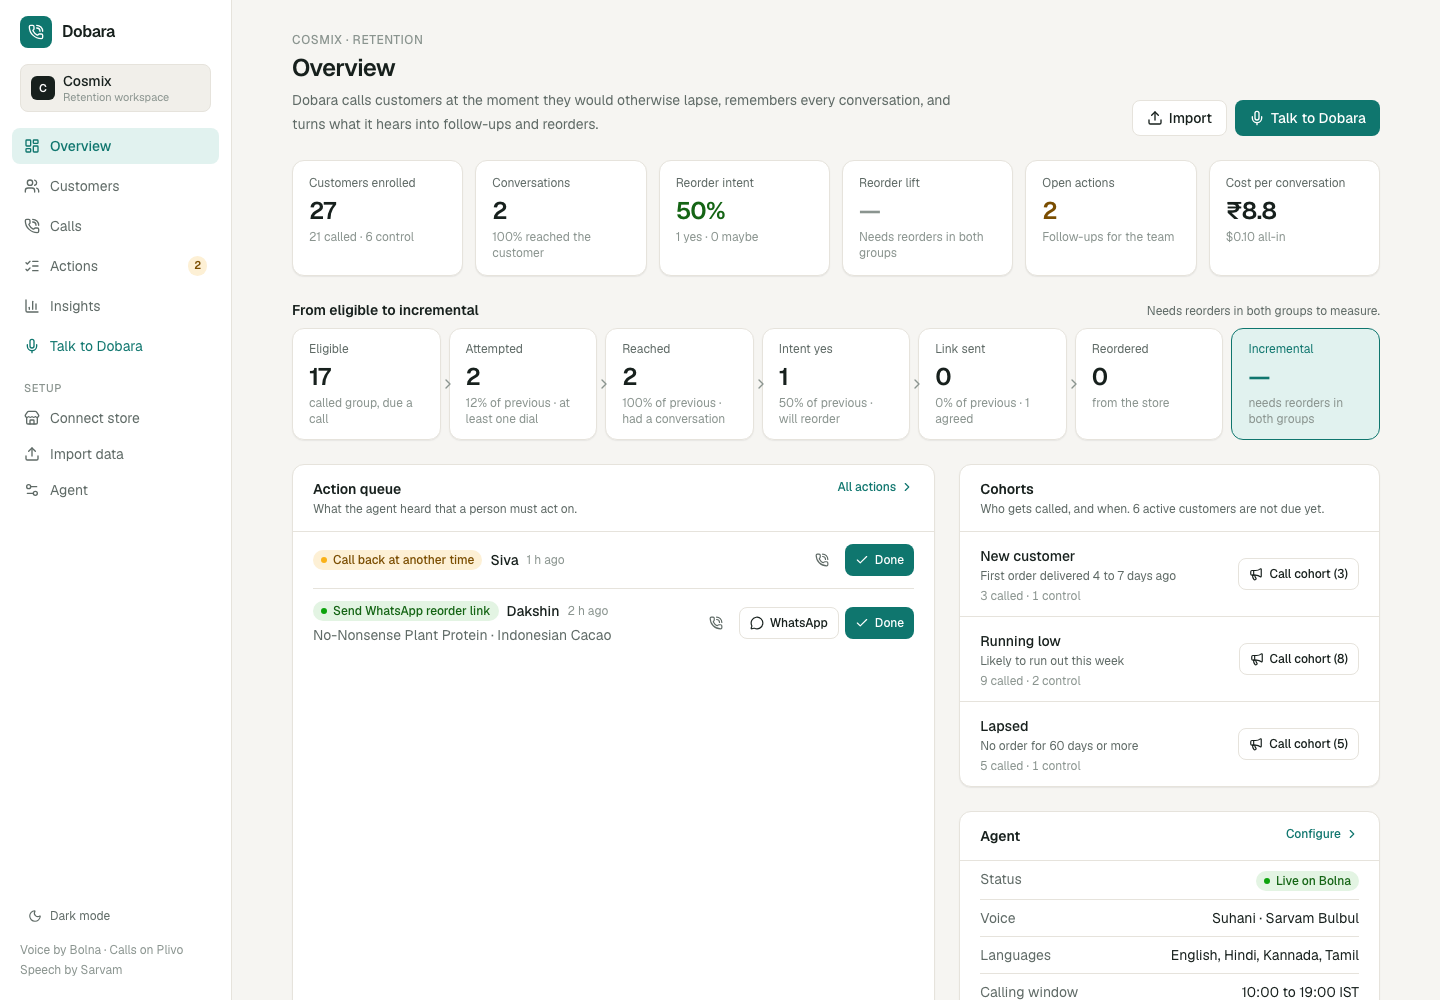
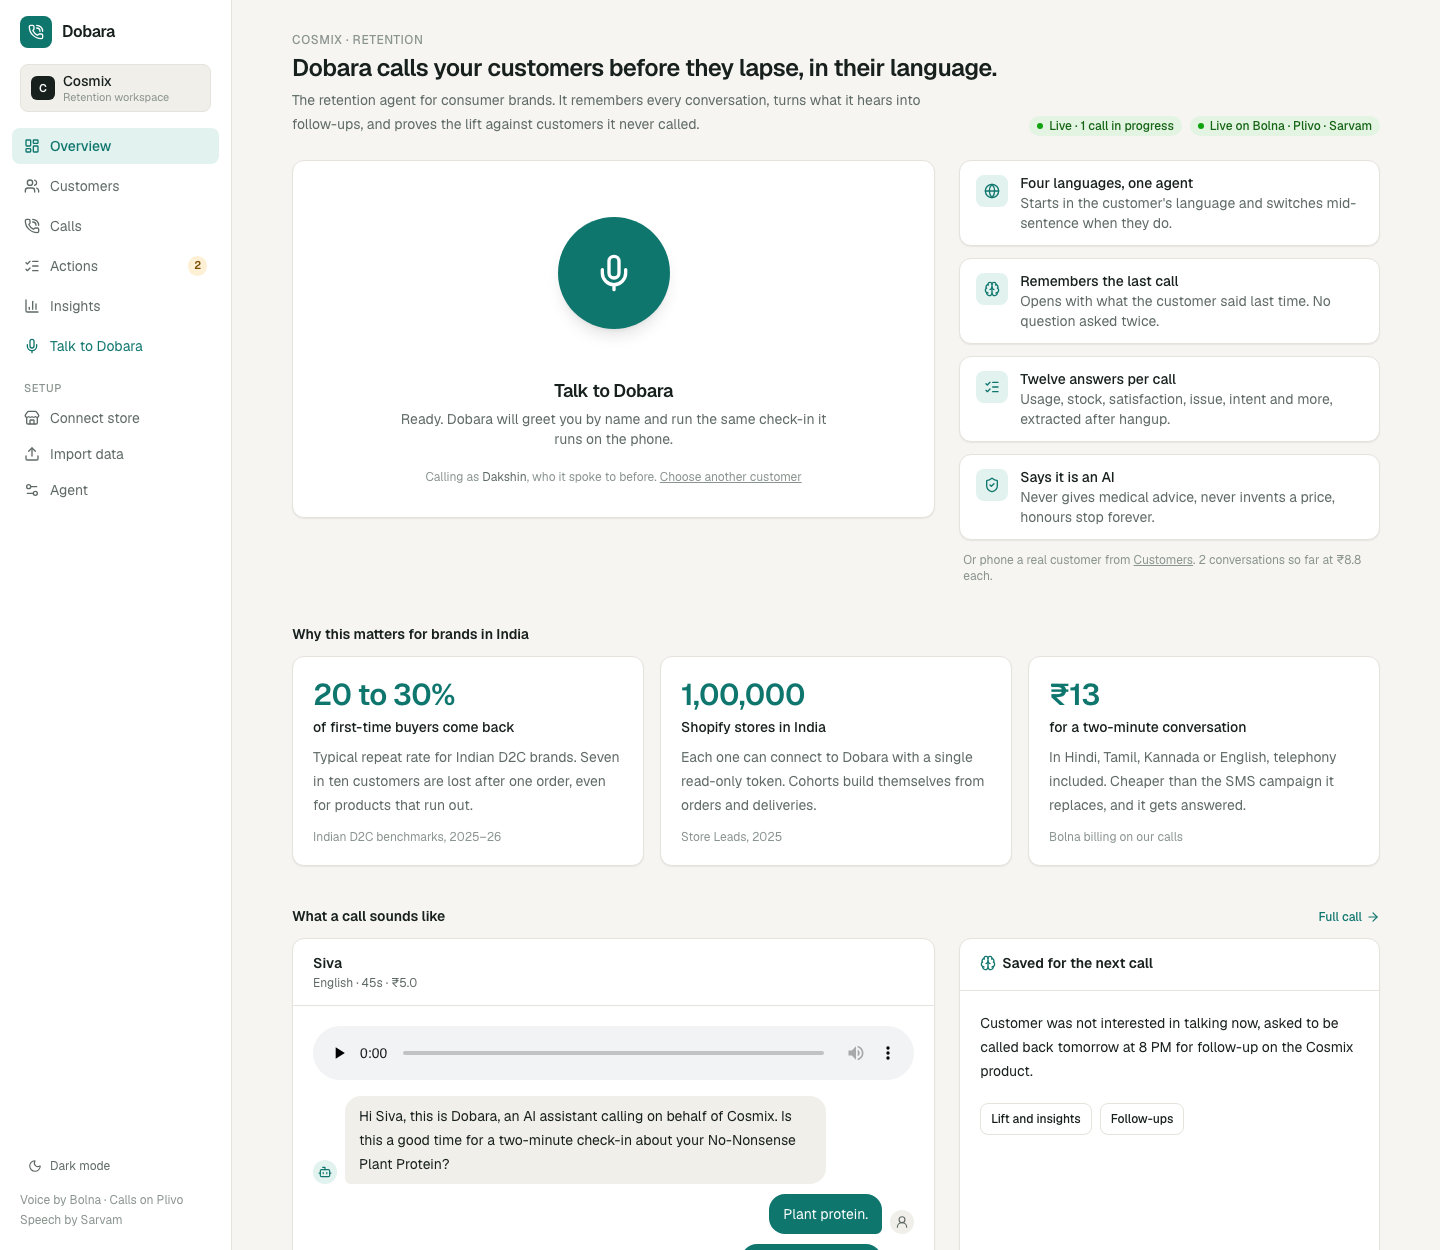
Overview showcases the latest substantial conversation

diff --git a/src/app/page.tsx b/src/app/page.tsx
@@ -102,7 +102,11 @@ export default async function OverviewPage() {
     const convs = callRows.filter((r) => isConversation(r.call));
     conversations = convs.length;
     costCents = convs.reduce((s, r) => s + (r.call.totalCostCents ?? 0), 0);
-    latest = convs.find((r) => r.call.transcript) ?? null;
+    // Prefer the most recent conversation with some substance; a declined call makes a poor showcase.
+    latest =
+      convs.find((r) => r.call.transcript && r.call.conversationDuration >= 60) ??
+      convs.find((r) => r.call.transcript) ??
+      null;
     liveIds = recent.filter((c) => isLive(c)).map((c) => c.id);
   } catch (e) {
     return <SetupNotice error={e instanceof Error ? e.message : String(e)} />;
